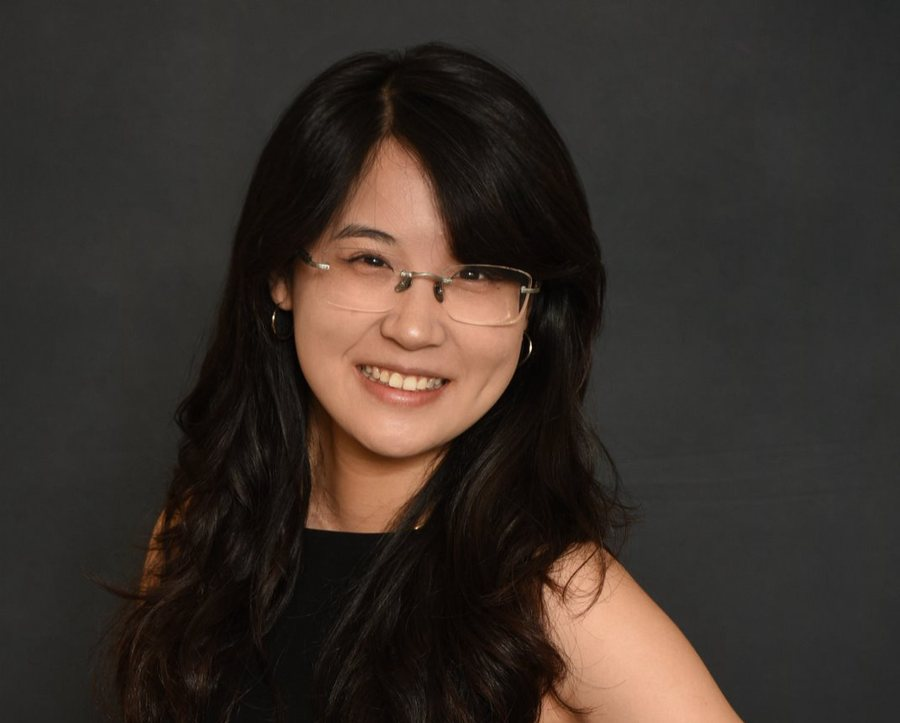
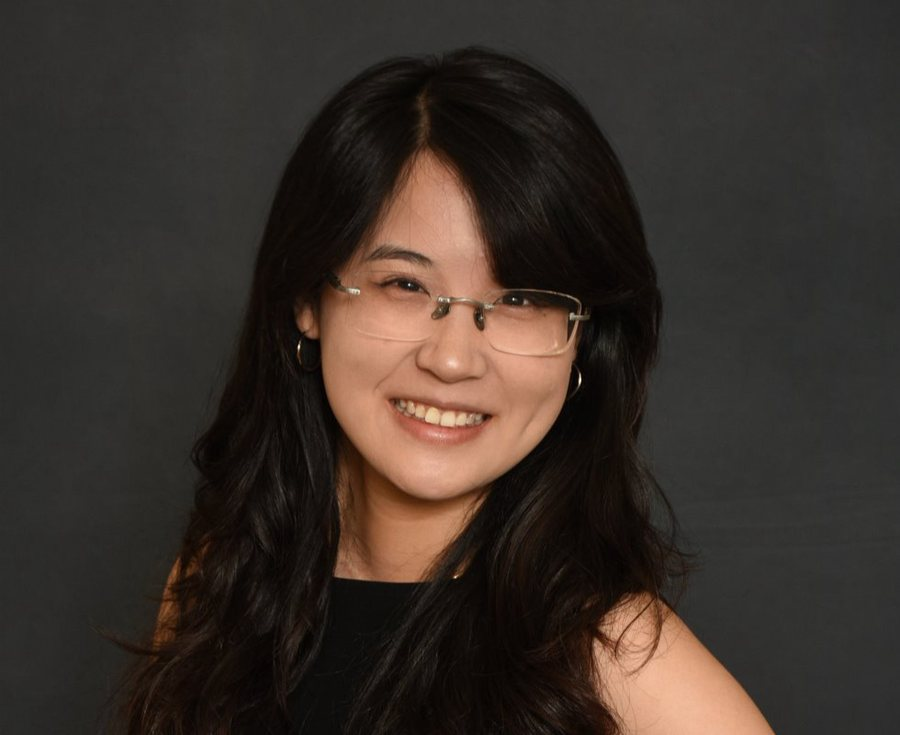
Center the photo horizontally on the face
Claude-Session: https://claude.ai/code/session_015jeS4TEoCnhQ14rUiHbazD

diff --git a/src/styles/global.css b/src/styles/global.css
@@ -190,7 +190,7 @@ button.chip[aria-pressed="true"] { background: var(--accent); border-color: var(
   display: flex; align-items: center; justify-content: center;
   color: var(--accent); font-family: 'Bricolage Grotesque', sans-serif; font-size: 56px; font-weight: 650; letter-spacing: -0.02em;
 }
-.glance-photo img { width: 100%; height: 100%; object-fit: cover; object-position: 48% 14%; }
+.glance-photo img { width: 100%; height: 100%; object-fit: cover; object-position: 50% 15%; }
 .readout {
   display: grid; grid-template-columns: repeat(2, minmax(0, 1fr)); gap: 1px; margin: 0;
   background: var(--border); border: 1px solid var(--border); border-radius: 14px; overflow: hidden;
